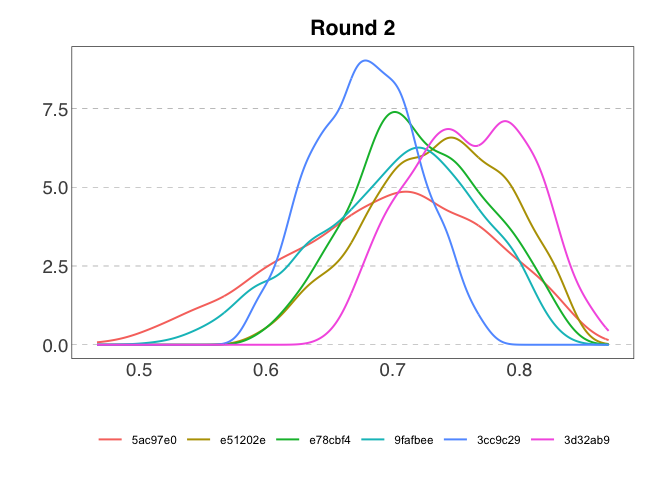
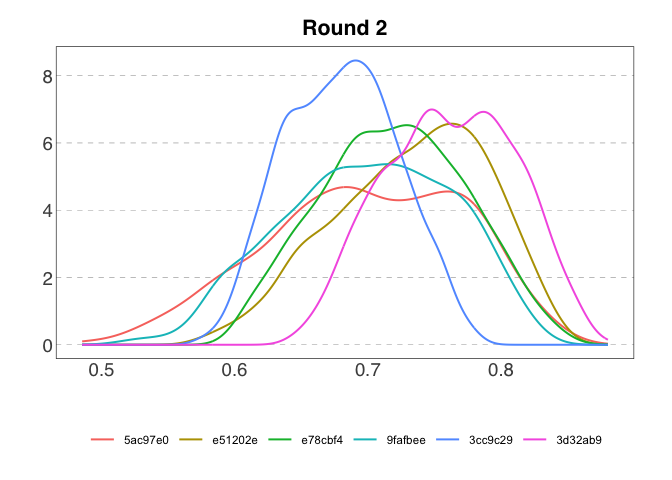
Update readme.

diff --git a/README.md b/README.md
@@ -33,14 +33,7 @@ on two formal elicitation methods:
 
 ## Installation
 
-You can install the development version of elicitr from GitHub with:
-
-``` r
-# install.packages("pak")
-pak::pak("CREWdecisions/elicitr")
-```
-
-Or you can install form R universe using
+You can install the development version of elicitr from R universe using
 
 ``` r
 install.packages("elicitr", 
@@ -192,22 +185,22 @@ Data can be sampled from the elicitation object:
 ``` r
 samp_cont <- cont_sample_data(my_elic_cont, round = 2)
 #> ✔ Rescaled min and max for variable "var3".
-#> ✔ Data for "var1", "var2", and "var3" sampled successfully using the "basic" method.
+#> ✔ Data for "var1", "var2", and "var3" sampled successfully using the "PERT" method.
 
 samp_cont
 #> # A tibble: 18,000 × 3
 #>    id      var   value
 #>    <chr>   <chr> <dbl>
-#>  1 5ac97e0 var1     -2
-#>  2 5ac97e0 var1     -2
-#>  3 5ac97e0 var1     -2
-#>  4 5ac97e0 var1     -2
+#>  1 5ac97e0 var1      0
+#>  2 5ac97e0 var1      0
+#>  3 5ac97e0 var1      0
+#>  4 5ac97e0 var1      0
 #>  5 5ac97e0 var1      0
-#>  6 5ac97e0 var1     -2
-#>  7 5ac97e0 var1      1
-#>  8 5ac97e0 var1     -4
+#>  6 5ac97e0 var1      0
+#>  7 5ac97e0 var1      0
+#>  8 5ac97e0 var1      0
 #>  9 5ac97e0 var1      0
-#> 10 5ac97e0 var1     -2
+#> 10 5ac97e0 var1      0
 #> # ℹ 17,990 more rows
 ```
 
@@ -218,9 +211,9 @@ summary(samp_cont)
 #> # A tibble: 3 × 7
 #>   Var      Min     Q1 Median   Mean     Q3    Max
 #>   <chr>  <dbl>  <dbl>  <dbl>  <dbl>  <dbl>  <dbl>
-#> 1 var1  -4     -2      0     -0.977  1      1    
-#> 2 var2  11.0   14.5   16.3   16.3   18.4   22.9  
-#> 3 var3   0.467  0.673  0.716  0.715  0.761  0.870
+#> 1 var1  -4     -2     -1     -1      1      1    
+#> 2 var2  11.0   14.5   16.3   16.3   18.4   22.8  
+#> 3 var3   0.485  0.670  0.716  0.715  0.762  0.880
 ```
 
 And plotted as violin plots:
@@ -339,16 +332,16 @@ cat_get_data(my_elic_cat,
 #> # A tibble: 120 × 5
 #>    id      option   category   confidence estimate
 #>    <chr>   <chr>    <chr>           <dbl>    <dbl>
-#>  1 5ac97e0 option_1 category_1         15        8
-#>  2 5ac97e0 option_1 category_2         15        0
-#>  3 5ac97e0 option_1 category_3         15       85
-#>  4 5ac97e0 option_1 category_4         15        2
-#>  5 5ac97e0 option_1 category_5         15        5
-#>  6 5ac97e0 option_2 category_1         35        2
-#>  7 5ac97e0 option_2 category_2         35       11
-#>  8 5ac97e0 option_2 category_3         35       18
-#>  9 5ac97e0 option_2 category_4         35        2
-#> 10 5ac97e0 option_2 category_5         35       67
+#>  1 5ac97e0 option_1 category_1         66       57
+#>  2 5ac97e0 option_1 category_2         66       18
+#>  3 5ac97e0 option_1 category_3         66        2
+#>  4 5ac97e0 option_1 category_4         66        2
+#>  5 5ac97e0 option_1 category_5         66       21
+#>  6 5ac97e0 option_2 category_1         86        6
+#>  7 5ac97e0 option_2 category_2         86        4
+#>  8 5ac97e0 option_2 category_3         86       12
+#>  9 5ac97e0 option_2 category_4         86       42
+#> 10 5ac97e0 option_2 category_5         86       36
 #> # ℹ 110 more rows
 ```
 
@@ -364,16 +357,16 @@ samp_cat_unweighted
 #> # A tibble: 2,400 × 7
 #>    id      option   category_1 category_2 category_3 category_4 category_5
 #>    <chr>   <chr>         <dbl>      <dbl>      <dbl>      <dbl>      <dbl>
-#>  1 5ac97e0 option_1     0.0707          0      0.821     0.0199     0.0882
-#>  2 5ac97e0 option_1     0.0899          0      0.876     0.0119     0.0225
-#>  3 5ac97e0 option_1     0.0713          0      0.858     0.0161     0.0545
-#>  4 5ac97e0 option_1     0.0586          0      0.882     0.0216     0.0379
-#>  5 5ac97e0 option_1     0.111           0      0.828     0.0121     0.0488
-#>  6 5ac97e0 option_1     0.0709          0      0.848     0.0197     0.0616
-#>  7 5ac97e0 option_1     0.0559          0      0.900     0.0119     0.0325
-#>  8 5ac97e0 option_1     0.0629          0      0.884     0.0154     0.0382
-#>  9 5ac97e0 option_1     0.0768          0      0.864     0.0198     0.0398
-#> 10 5ac97e0 option_1     0.0679          0      0.824     0.0352     0.0725
+#>  1 5ac97e0 option_1      0.550      0.190    0.0446     0.0194       0.196
+#>  2 5ac97e0 option_1      0.535      0.244    0.0247     0.0207       0.175
+#>  3 5ac97e0 option_1      0.555      0.160    0.0525     0.0247       0.208
+#>  4 5ac97e0 option_1      0.468      0.198    0.0192     0.00389      0.311
+#>  5 5ac97e0 option_1      0.560      0.184    0.0297     0.0249       0.201
+#>  6 5ac97e0 option_1      0.549      0.232    0.0321     0.0199       0.167
+#>  7 5ac97e0 option_1      0.511      0.296    0.00624    0.00170      0.186
+#>  8 5ac97e0 option_1      0.583      0.148    0.0120     0.0448       0.213
+#>  9 5ac97e0 option_1      0.540      0.229    0.0191     0.00194      0.210
+#> 10 5ac97e0 option_1      0.635      0.121    0.0128     0.00565      0.225
 #> # ℹ 2,390 more rows
 
 samp_cat_weighted <- cat_sample_data(my_elic_cat,
@@ -384,16 +377,16 @@ samp_cat_weighted
 #> # A tibble: 1,800 × 7
 #>    id      option   category_1 category_2 category_3 category_4 category_5
 #>    <chr>   <chr>         <dbl>      <dbl>      <dbl>      <dbl>      <dbl>
-#>  1 5ac97e0 option_1    0.0207     0.0173    0.00560       0.824     0.132 
-#>  2 5ac97e0 option_1    0.0324     0.0236    0.00866       0.886     0.0496
-#>  3 5ac97e0 option_1    0.0194     0.0237    0.00737       0.861     0.0886
-#>  4 5ac97e0 option_1    0.0152     0.00920   0.000198      0.900     0.0755
-#>  5 5ac97e0 option_1    0.0146     0.0267    0.00866       0.882     0.0684
-#>  6 5ac97e0 option_1    0.0369     0.0167    0.00786       0.867     0.0713
-#>  7 5ac97e0 option_1    0.00961    0.0269    0.0108        0.887     0.0660
-#>  8 5ac97e0 option_1    0.0165     0.00146   0.00509       0.934     0.0427
-#>  9 5ac97e0 option_1    0.0121     0.0103    0.00930       0.858     0.110 
-#> 10 5ac97e0 option_1    0.0103     0.0219    0.0161        0.849     0.102 
+#>  1 5ac97e0 option_1     0.147       0.390      0.210    0.0121       0.241
+#>  2 5ac97e0 option_1     0.150       0.412      0.153    0.0174       0.267
+#>  3 5ac97e0 option_1     0.0837      0.522      0.134    0.0357       0.224
+#>  4 5ac97e0 option_1     0.104       0.590      0.172    0.0192       0.115
+#>  5 5ac97e0 option_1     0.143       0.500      0.120    0.0237       0.213
+#>  6 5ac97e0 option_1     0.112       0.510      0.206    0.00597      0.166
+#>  7 5ac97e0 option_1     0.0670      0.530      0.177    0.00936      0.217
+#>  8 5ac97e0 option_1     0.0863      0.585      0.141    0.0335       0.155
+#>  9 5ac97e0 option_1     0.103       0.511      0.152    0.0263       0.208
+#> 10 5ac97e0 option_1     0.122       0.531      0.102    0.0319       0.212
 #> # ℹ 1,790 more rows
 ```
 
@@ -401,14 +394,15 @@ And the sample summarised:
 
 ``` r
 summary(samp_cat_unweighted, option = "option_2")
+#> $option_2
 #> # A tibble: 5 × 7
-#>   Category        Min     Q1 Median   Mean    Q3   Max
-#>   <chr>         <dbl>  <dbl>  <dbl>  <dbl> <dbl> <dbl>
-#> 1 category_1 0.000945 0.101  0.158  0.192  0.316 0.501
-#> 2 category_2 0.0129   0.0838 0.130  0.207  0.350 0.626
-#> 3 category_3 0.0115   0.126  0.214  0.227  0.294 0.589
-#> 4 category_4 0.00109  0.0268 0.0667 0.0948 0.144 0.334
-#> 5 category_5 0.00159  0.147  0.243  0.279  0.353 0.795
+#>   category        Min      Q1 Median   Mean     Q3   Max
+#>   <chr>         <dbl>   <dbl>  <dbl>  <dbl>  <dbl> <dbl>
+#> 1 category_1 0.000653 0.0266  0.0529 0.0628 0.0884 0.232
+#> 2 category_2 0.00423  0.0661  0.139  0.183  0.250  0.588
+#> 3 category_3 0.0171   0.0882  0.128  0.190  0.274  0.574
+#> 4 category_4 0        0.00762 0.0955 0.200  0.420  0.674
+#> 5 category_5 0.0199   0.259   0.336  0.364  0.439  0.810
 ```
 
 And plotted as violin plots:
